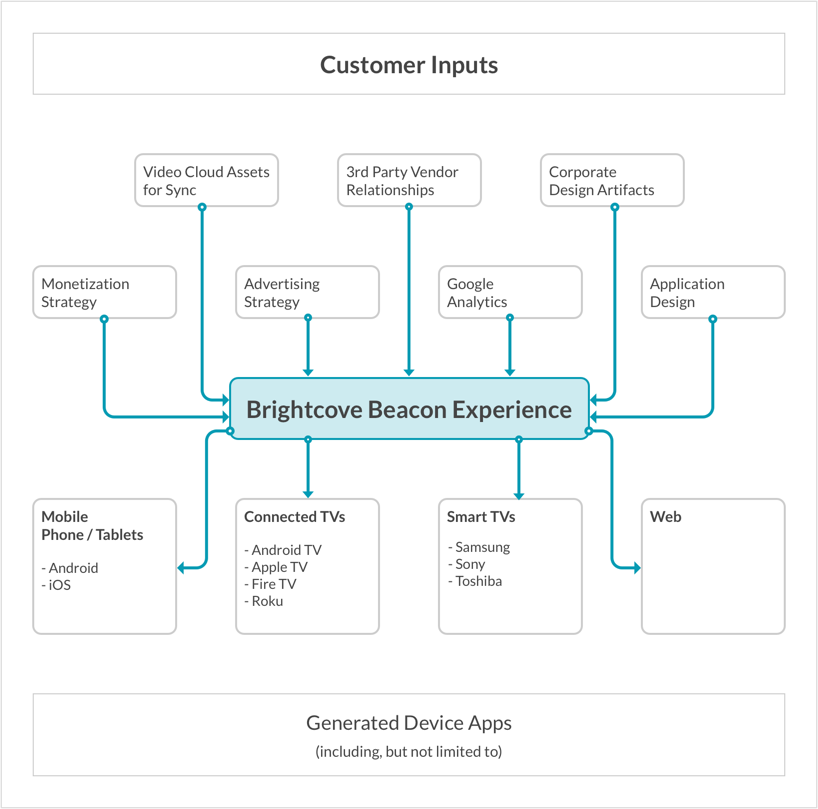
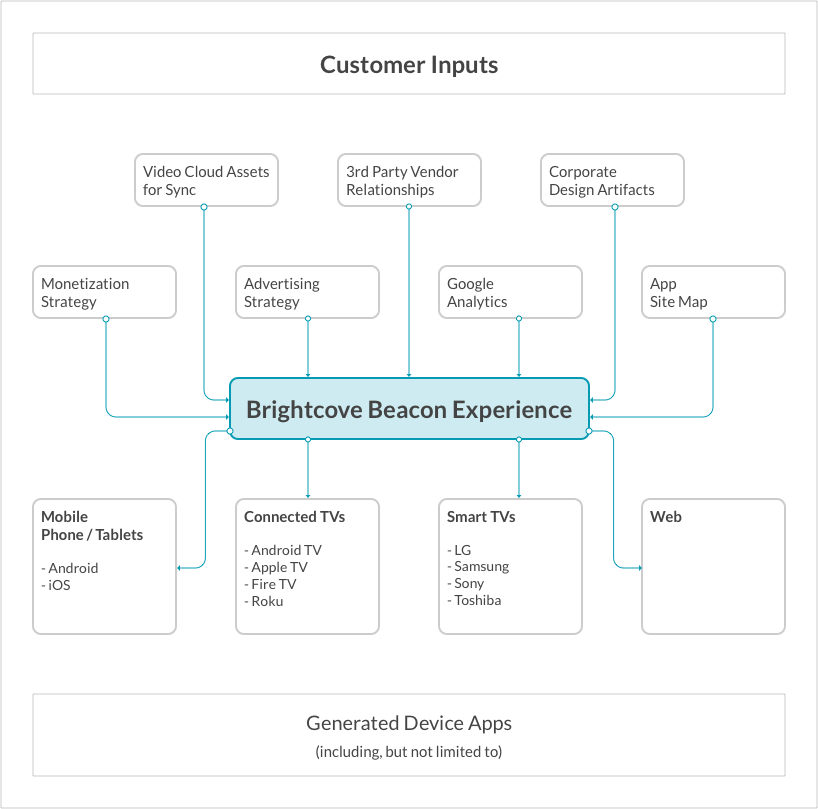
Added LG info back into Learning Guide

diff --git a/_site/channels/cloud-playout/cloud-playout-stream-vod.html b/_site/channels/cloud-playout/cloud-playout-stream-vod.html
@@ -1517,7 +1517,7 @@ function doGTranslate(lang_pair) {if(lang_pair.value)lang_pair=lang_pair.value;i
     <h2 id="channel">Creating a channel</h2>
     <p>To create a new Cloud Playout channel, follow these steps. </p>
     <ol class="bcls-tasklist-restart" style="--s:1">
-      <li>Click <strong>Cloud Playout</strong> in the navigation header.</li>
+      <li>Click <strong>Cloud Playout</strong> in the primary navigation.</li>
       <li>
         Click <span class="button-blue">Add New</span>:
         <figure class="bcls-figure">
@@ -1564,15 +1564,15 @@ function doGTranslate(lang_pair) {if(lang_pair.value)lang_pair=lang_pair.value;i
           <li><strong>Output to</strong> - Select an output method for the channel
             <ul>
               <li><strong>Brightcove Live Event</strong> - Create or use a previously created Brightcove Live Channel. When creating a new channel, the region of the channel will be optimized based upon the <strong>Output Region</strong> that was selected.</li>
-                <aside class="bcls-aside bcls-aside--information language-editable">If you are using Brightcove Live, you can also set the destination as a redundant group to get automatic failover for uninterrupted, reliable playback. See <a href="/channels/cloud-playout/channel-live-redundancy.html">Using Live Redundancy with Channels</a> for more details.</aside>
-              </li>
-              <li><strong>RTMP</strong> - this destination is <strong>not compatible with Beacon.</strong></li>
-              <li><strong>Amazon S3 Bucket </strong>- Select to push an HLS output to an Amazon S3 bucket. You will be required to enter Bucket Name, Region, Access Key and Secret Key. The bucket should be public and writeable. To avoid entering all this information every time you create a channel see <a href="/channels/cloud-playout/configuring-s3-buckets.html">Configuring S3 Buckets</a>.</li>
-            </ul>
-            <aside class="bcls-aside bcls-aside--information">Note that outputting to <strong>Brightcove Live Event</strong> will automatically generate live hours for your account, which are billable. There is no addition charge for using Cloud Playout, but normal charges for live streaming hours apply.
-            </aside>
+              <aside class="bcls-aside bcls-aside--information language-editable">If you are using Brightcove Live, you can also set the destination as a redundant group to get automatic failover for uninterrupted, reliable playback. See <a href="/channels/cloud-playout/channel-live-redundancy.html">Using Live Redundancy with Channels</a> for more details.</aside>
           </li>
+          <li><strong>RTMP</strong> - this destination is <strong>not compatible with Beacon.</strong></li>
+          <li><strong>Amazon S3 Bucket </strong>- Select to push an HLS output to an Amazon S3 bucket. You will be required to enter Bucket Name, Region, Access Key and Secret Key. The bucket should be public and writeable. To avoid entering all this information every time you create a channel see <a href="/channels/cloud-playout/configuring-s3-buckets.html">Configuring S3 Buckets</a>.</li>
         </ul>
+        <aside class="bcls-aside bcls-aside--information">Note that outputting to <strong>Brightcove Live Event</strong> will automatically generate live hours for your account, which are billable. There is no addition charge for using Cloud Playout, but normal charges for live streaming hours apply.
+        </aside>
+      </li>
+      </ul>
       </li>
       <li>Click <img src="/assets/images/cloud-playout/cloudplayout-create-channel.png" alt="create channel" class="ui-image">. The new channel will be created with a status of <strong>DRAFT</strong>.</li>
     </ol>
@@ -1580,7 +1580,7 @@ function doGTranslate(lang_pair) {if(lang_pair.value)lang_pair=lang_pair.value;i
   <section class="bcls-section">
     <h2 id="add_content">Adding content to a channel</h2>
     <p>See <a href="/channels/cloud-playout/cloud-playout-add-content.html">Managing the Channel Program</a> for information on how to add VOD content, playlists, and live events to your channel.</p>
-    <p>Also see:</p> 
+    <p>Also see:</p>
     <ul>
       <li><a href="/channels/cloud-playout/static-image-overlays.html">Adding Static Image Overlays</a></li>
       <!-- <li><a href="/channels/cloud-playout/static-image-overlays.html">Adding Dynamic Overlays</a></li> -->
@@ -1592,7 +1592,7 @@ function doGTranslate(lang_pair) {if(lang_pair.value)lang_pair=lang_pair.value;i
     <figure class="bcls-figure"><img class="bcls-image--no-border" alt="report switcher" src="/assets/images/cloud-playout/playout-playlist-created.png" /></figure>
     <p>We strongly recommend that you make any changes to the channel in the Cloud Playout module, and <strong>do not edit the generated playlist in any way</strong>.</p>
   </section>
-  
+
   <section class="bcls-section">
     <h2 id="getting_the_rtmp_ingest_point">Getting the RTMP ingest point</h2>
     <aside class="bcls-aside bcls-aside--information language-editable">This section only applies if you are including live events in your channel.</aside>

diff --git a/channels/cloud-playout/cloud-playout-stream-vod.html b/channels/cloud-playout/cloud-playout-stream-vod.html
@@ -46,7 +46,7 @@ parent: Cloud Playout
     <h2 id="channel">Creating a channel</h2>
     <p>To create a new Cloud Playout channel, follow these steps. </p>
     <ol class="bcls-tasklist-restart" style="--s:1">
-      <li>Click <strong>Cloud Playout</strong> in the navigation header.</li>
+      <li>Click <strong>Cloud Playout</strong> in the primary navigation.</li>
       <li>
         Click <span class="button-blue">Add New</span>:
         <figure class="bcls-figure">
@@ -93,15 +93,15 @@ parent: Cloud Playout
           <li><strong>Output to</strong> - Select an output method for the channel
             <ul>
               <li><strong>Brightcove Live Event</strong> - Create or use a previously created Brightcove Live Channel. When creating a new channel, the region of the channel will be optimized based upon the <strong>Output Region</strong> that was selected.</li>
-                <aside class="bcls-aside bcls-aside--information language-editable">If you are using Brightcove Live, you can also set the destination as a redundant group to get automatic failover for uninterrupted, reliable playback. See <a href="/channels/cloud-playout/channel-live-redundancy.html">Using Live Redundancy with Channels</a> for more details.</aside>
-              </li>
-              <li><strong>RTMP</strong> - this destination is <strong>not compatible with Beacon.</strong></li>
-              <li><strong>Amazon S3 Bucket </strong>- Select to push an HLS output to an Amazon S3 bucket. You will be required to enter Bucket Name, Region, Access Key and Secret Key. The bucket should be public and writeable. To avoid entering all this information every time you create a channel see <a href="/channels/cloud-playout/configuring-s3-buckets.html">Configuring S3 Buckets</a>.</li>
-            </ul>
-            <aside class="bcls-aside bcls-aside--information">Note that outputting to <strong>Brightcove Live Event</strong> will automatically generate live hours for your account, which are billable. There is no addition charge for using Cloud Playout, but normal charges for live streaming hours apply.
-            </aside>
+              <aside class="bcls-aside bcls-aside--information language-editable">If you are using Brightcove Live, you can also set the destination as a redundant group to get automatic failover for uninterrupted, reliable playback. See <a href="/channels/cloud-playout/channel-live-redundancy.html">Using Live Redundancy with Channels</a> for more details.</aside>
           </li>
+          <li><strong>RTMP</strong> - this destination is <strong>not compatible with Beacon.</strong></li>
+          <li><strong>Amazon S3 Bucket </strong>- Select to push an HLS output to an Amazon S3 bucket. You will be required to enter Bucket Name, Region, Access Key and Secret Key. The bucket should be public and writeable. To avoid entering all this information every time you create a channel see <a href="/channels/cloud-playout/configuring-s3-buckets.html">Configuring S3 Buckets</a>.</li>
         </ul>
+        <aside class="bcls-aside bcls-aside--information">Note that outputting to <strong>Brightcove Live Event</strong> will automatically generate live hours for your account, which are billable. There is no addition charge for using Cloud Playout, but normal charges for live streaming hours apply.
+        </aside>
+      </li>
+      </ul>
       </li>
       <li>Click <img src="/assets/images/cloud-playout/cloudplayout-create-channel.png" alt="create channel" class="ui-image">. The new channel will be created with a status of <strong>DRAFT</strong>.</li>
     </ol>
@@ -109,7 +109,7 @@ parent: Cloud Playout
   <section class="bcls-section">
     <h2 id="add_content">Adding content to a channel</h2>
     <p>See <a href="/channels/cloud-playout/cloud-playout-add-content.html">Managing the Channel Program</a> for information on how to add VOD content, playlists, and live events to your channel.</p>
-    <p>Also see:</p> 
+    <p>Also see:</p>
     <ul>
       <li><a href="/channels/cloud-playout/static-image-overlays.html">Adding Static Image Overlays</a></li>
       <!-- <li><a href="/channels/cloud-playout/static-image-overlays.html">Adding Dynamic Overlays</a></li> -->
@@ -121,7 +121,7 @@ parent: Cloud Playout
     <figure class="bcls-figure"><img class="bcls-image--no-border" alt="report switcher" src="/assets/images/cloud-playout/playout-playlist-created.png" /></figure>
     <p>We strongly recommend that you make any changes to the channel in the Cloud Playout module, and <strong>do not edit the generated playlist in any way</strong>.</p>
   </section>
-  
+
   <section class="bcls-section">
     <h2 id="getting_the_rtmp_ingest_point">Getting the RTMP ingest point</h2>
     <aside class="bcls-aside bcls-aside--information language-editable">This section only applies if you are including live events in your channel.</aside>

diff --git a/_site/getting-started/learning-guide-bc-beacon.html b/_site/getting-started/learning-guide-bc-beacon.html
@@ -1503,7 +1503,7 @@ function doGTranslate(lang_pair) {if(lang_pair.value)lang_pair=lang_pair.value;i
       </li>
       <li>Smart TVs
         <ul>
-          <!-- <li>LG</li> -->
+          <li>LG</li>
           <!-- <li>Panasonic</li> -->
           <li>Samsung</li>
           <li>Sony</li>

diff --git a/getting-started/learning-guide-bc-beacon.html b/getting-started/learning-guide-bc-beacon.html
@@ -37,7 +37,7 @@ parent: Getting Started
       </li>
       <li>Smart TVs
         <ul>
-          <!-- <li>LG</li> -->
+          <li>LG</li>
           <!-- <li>Panasonic</li> -->
           <li>Samsung</li>
           <li>Sony</li>
